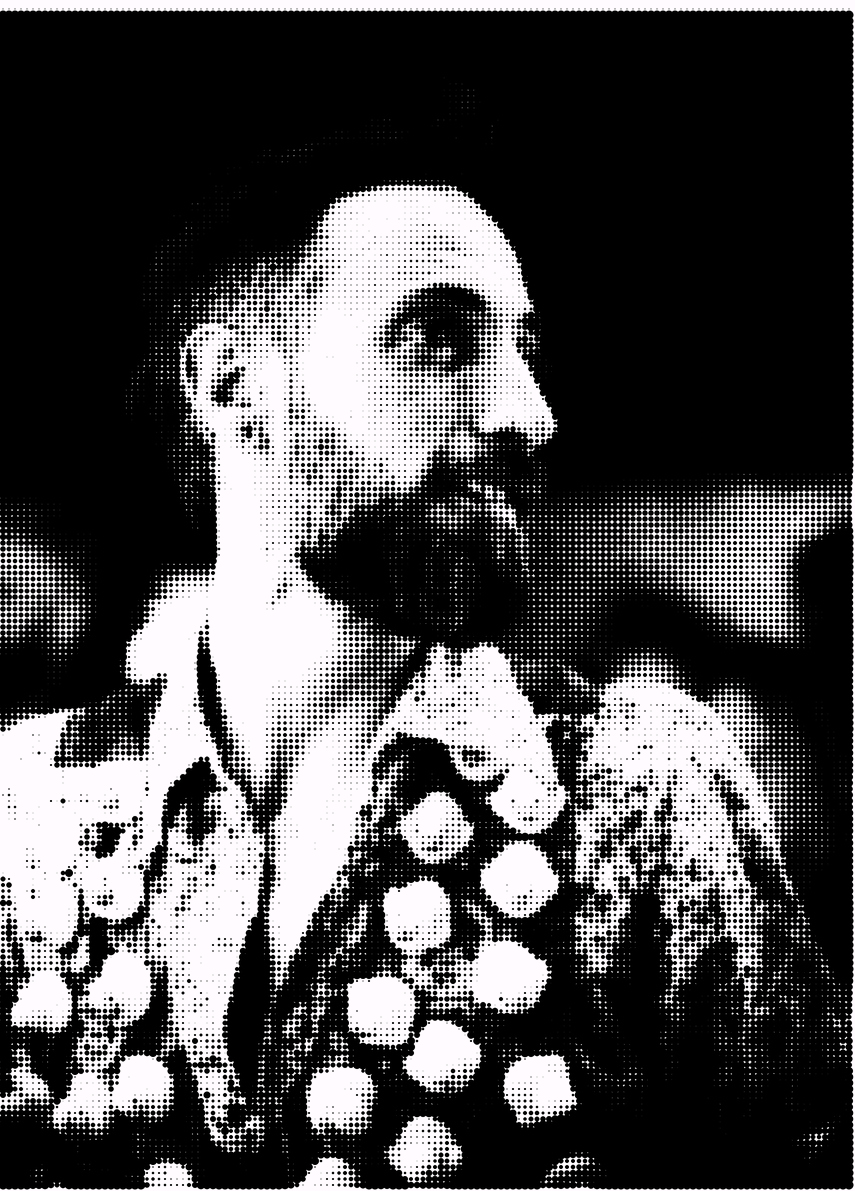
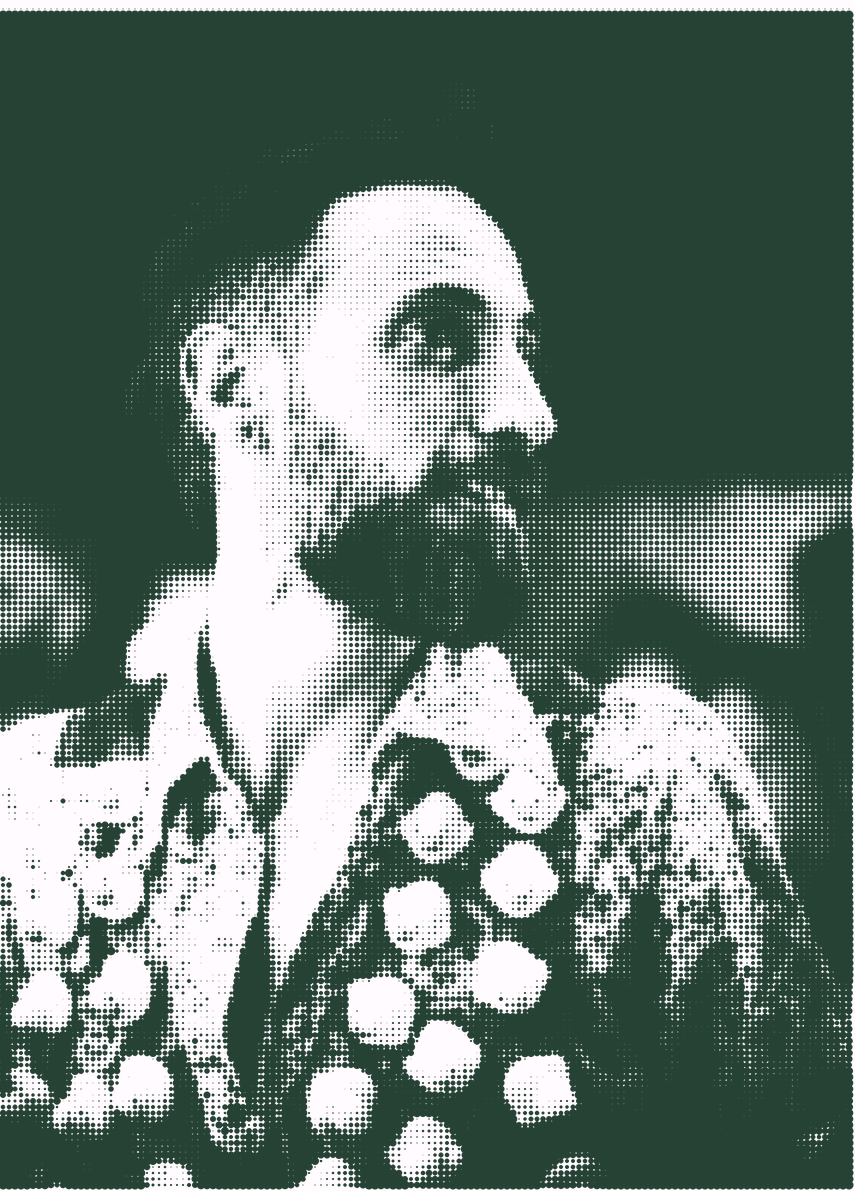
brand: extend palette with terracotta and bottle green
Adds a riso-style secondary pair (#c2603c clay, #3f6b52 / #264234 green)
used in the illustration only - core black/white/red still carries all
typography and rules. Applied across the Chachi X Vivian poster: arch
rings, stairs, bottles, shaker band, tag, bullet dots, and a duotone
green halftone for the portrait.

Claude-Session: https://claude.ai/code/session_01AhfEANtPutTF2tRQEqNaFG

diff --git a/media/brand/poster-chachi.html b/media/brand/poster-chachi.html
@@ -9,7 +9,7 @@
   @font-face{font-family:TutText;src:url('../../fonts/almoni-tzar-demibold-aaa.otf');font-weight:600}
   @font-face{font-family:TutMono;src:url('../../fonts/index-mono-bold-aaa.otf')}
 
-  :root{ --red:#ef1c21; --ink:#000; --paper:#fffbff; }
+  :root{ --red:#ef1c21; --clay:#c2603c; --olive:#3f6b52; --ink:#000; --paper:#fffbff; }
   *{margin:0;padding:0;box-sizing:border-box}
   body{background:#e9e9e9;display:flex;justify-content:center}
 
@@ -25,6 +25,7 @@
   .wordmark{width:296px;display:block}
   .daycircle{
     width:168px;height:168px;border-radius:50%;background:var(--red);
+    box-shadow:0 0 0 9px var(--paper), 0 0 0 14px var(--clay);
     display:flex;flex-direction:column;align-items:center;justify-content:center;
     transform:rotate(-8deg);
   }
@@ -39,7 +40,7 @@
   h1{font:900 96px/.94 Tut;letter-spacing:-2px;text-align:right;margin-top:20px}
   h1 i{color:var(--red);font-style:normal}
   .kicker{display:flex;align-items:center;gap:22px;margin-top:14px}
-  .tag{background:#000;color:var(--paper);font:900 34px/1 Tut;padding:11px 24px}
+  .tag{background:var(--olive);color:var(--paper);font:900 34px/1 Tut;padding:11px 24px}
   .lat{font:400 23px/1 TutMono;letter-spacing:8px;color:#111}
 
   .rule{height:4px;background:#000;margin-top:20px}
@@ -47,7 +48,7 @@
 
   .lede{font:300 36px/1.3 TutText;text-align:right;margin:18px 0 0}
   .lede em{font-weight:600;font-style:normal}
-  .lede b{color:var(--red);font-weight:600}
+  .lede b{color:var(--clay);font-weight:600}
 
   /* ---- details ---- */
   .details{display:flex;align-items:center;gap:34px;margin-top:18px}
@@ -60,6 +61,7 @@
 
   .bullets{font:900 32px/1 Tut;text-align:center;padding:16px 0}
   .bullets i{color:var(--red);font-style:normal;padding:0 10px}
+  .bullets i.c{color:var(--clay)} .bullets i.o{color:var(--olive)}
 
   footer{margin-top:auto;display:flex;align-items:center;justify-content:center;gap:13px;padding-top:14px}
   footer svg{width:34px;height:34px}
@@ -87,9 +89,9 @@
     <g clip-path="url(#cR)">
       <circle cx="872" cy="98" r="50" fill="#ef1c21"/>
       <path d="M666 400 V236 a92 92 0 0 1 184 0 V400" fill="none" stroke="#000" stroke-width="28"/>
-      <path d="M710 400 V236 a48 48 0 0 1 96 0 V400" fill="none" stroke="#000" stroke-width="11"/>
-      <path d="M734 400 V238 a24 24 0 0 1 48 0 V400" fill="none" stroke="#000" stroke-width="5"/>
-      <path d="M846 400 V308 h38 V270 h38 V232 h38 V400 Z" fill="#000"/>
+      <path d="M710 400 V236 a48 48 0 0 1 96 0 V400" fill="none" stroke="#c2603c" stroke-width="11"/>
+      <path d="M734 400 V238 a24 24 0 0 1 48 0 V400" fill="none" stroke="#3f6b52" stroke-width="5"/>
+      <path d="M846 400 V308 h38 V270 h38 V232 h38 V400 Z" fill="#c2603c"/>
       <rect x="624" y="374" width="336" height="6" fill="#000"/>
     </g>
 
@@ -97,22 +99,22 @@
     <clipPath id="cM"><rect x="298" y="3" width="313" height="394"/></clipPath>
     <g clip-path="url(#cM)">
       <!-- solid black base (bottom half) -->
-      <rect x="298" y="222" width="313" height="178" fill="#000"/>
+      <rect x="298" y="222" width="313" height="178" fill="#264234"/>
       <!-- shaker -->
       <g stroke="#000" stroke-width="4" fill="#fffbff">
         <path d="M330 222 V126 l12 -32 h54 l12 32 V222 Z"/>
-        <rect x="338" y="66" width="66" height="26"/>
+        <rect x="338" y="66" width="66" height="26" fill="#c2603c"/>
         <path d="M350 66 V50 h42 v16"/>
       </g>
       <!-- striped bottle -->
       <g stroke="#000" stroke-width="4" fill="#fffbff">
         <path d="M432 222 V116 c0 -22 15 -26 15 -45 V40 h-30 v31 c0 19 15 23 15 45 V222 Z"/>
       </g>
-      <g stroke="#000" stroke-width="3">
+      <g stroke="#c2603c" stroke-width="5">
         <path d="M419 132 h26 M419 146 h26 M419 160 h26 M419 174 h26 M419 188 h26"/>
       </g>
       <!-- solid bottle -->
-      <path d="M498 222 V122 c0 -22 -14 -26 -14 -44 V46 h28 v32 c0 18 14 22 14 44 V222 Z" fill="#000"/>
+      <path d="M498 222 V122 c0 -22 -14 -26 -14 -44 V46 h28 v32 c0 18 14 22 14 44 V222 Z" fill="#3f6b52"/>
       <!-- coupe on the shelf -->
       <g stroke="#000" stroke-width="4" fill="none">
         <path d="M540 150 h56 a28 28 0 0 1 -56 0 Z" fill="#000"/>
@@ -142,9 +144,9 @@
     </g>
     <!-- name plate over the portrait -->
     <g>
-      <rect x="3" y="333" width="176" height="56" fill="#fffbff"/>
+      <rect x="3" y="331" width="180" height="60" fill="#fffbff" stroke="#264234" stroke-width="3"/>
       <text x="91" y="374" text-anchor="middle" font-family="Tut" font-weight="900"
-            font-size="36" fill="#000">צ'אצ'י</text>
+            font-size="36" fill="#3f6b52">צ'אצ'י</text>
     </g>
   </svg>
   </div>
@@ -178,7 +180,7 @@
   </div>
 
   <div class="rule thin"></div>
-  <div class="bullets">ואנחנו <i>•</i> מוזיקה <i>•</i> קוקטיילים <i>•</i> ריקאברי <i>•</i> צהריים</div>
+  <div class="bullets">ואנחנו <i>•</i> מוזיקה <i class="c">•</i> קוקטיילים <i class="o">•</i> ריקאברי <i class="c">•</i> צהריים</div>
   <div class="rule thin" style="margin-top:0"></div>
 
   <footer>

diff --git a/BRAND.md b/BRAND.md
@@ -11,10 +11,14 @@
 | `media/logo-mark.png` / `logo-mark-white.png` | גרסת מארק צרה (645×249) — שחור / לבן |
 | `media/brand/wordmark-studio-tut.png` | וורדמארק **סטודיו תות** בשתי שורות, שחור על שקוף (408×214) |
 | `media/brand/poster-opening-party.png` | הפוסטר המלא של מסיבת הפתיחה — ייחוס לשפה |
+| `media/brand/poster-chachi.html` + `poster-chachi-recovery-bar.png` | מודעת צ'אצ'י X ויויאן — מקור נערך + פלט |
+| `media/brand/chachi-halftone.png` | דיוקן צ'אצ'י בהאלפטון דו-גוני (דיו ירוק כהה) |
 | `favicon.png` | אייקון האתר |
 
 ## פלטת צבעים
-שלושה צבעים בלבד. אין גרדיאנטים, אין צללים, אין צבעי ביניים.
+צבעים שטוחים בלבד. אין גרדיאנטים, אין צללים, אין צבעי ביניים.
+
+**הליבה** — הבסיס של כל חומר:
 
 | תפקיד | ערך | הערה |
 |---|---|---|
@@ -22,6 +26,21 @@
 | דיו | `#000000` | שחור מלא, לא אפור-שחור |
 | מבטא | `#ef1c21` בדפוס · `#ef4444` באתר | אדום רווי אחד, בכמות קטנה |
 | אפור מושתק | `#545454` | טקסט משני בלבד |
+
+**גווני משנה** (נוספו ביולי 2026, לבקשת המשתמשת) — לחומרי דפוס ואיור, בתחושת ריזוגרף:
+
+| תפקיד | ערך | איפה |
+|---|---|---|
+| חמרה | `#c2603c` | מדרגות, פסים, טבעות, נקודות מפרידות |
+| ירוק בקבוק | `#3f6b52` | בקבוקים, תוויות, קשתות פנימיות |
+| ירוק כהה (בלוק) | `#264234` | שטחים מלאים שהיו שחורים, ודיו של האלפטון |
+
+**כללי שימוש:**
+- הליבה שולטת. חמרה וירוק הם **תבלין באיור** — לא בטיפוגרפיה הראשית, לא בקווי ההפרדה, לא במסגרת.
+- כותרות, גוף הטקסט וכל הקווים האופקיים נשארים **שחורים**. השלד תמיד מונוכרום.
+- האדום נשאר המבטא הראשי; חמרה וירוק לא מחליפים אותו ולא מתחרים בו על תשומת לב.
+- לא יותר משני גווני משנה בקומפוזיציה אחת.
+- באתר (`tutlavi.com`) הפלטה נשארת בינתיים **ליבה בלבד** — הגוונים הם לחומרי דפוס וסושיאל.
 
 **כלל הזהב:** האדום הוא סימן פיסוק, לא צבע מילוי. נקודה, עיגול שמש, מסגרת,
 הדגשת סטטוס — ולא יותר משלושה מופעים במסך אחד.
@@ -48,7 +67,7 @@
   שמש אדומה, כפתורים עגולים, חותמות/באדג'ים.
 
 ## איורים
-סגנון וקטורי שטוח, שחור-לבן בלבד + נגיעת אדום:
+סגנון וקטורי שטוח, שחור-לבן + נגיעות אדום, ובחומרי דפוס גם חמרה וירוק:
 - קווי מתאר בעובי אחיד, מילוי שחור מלא או לבן — אין הצללה, אין הדרגה.
 - אלמנטים חוזרים: קשתות, מדרגות, עמודים מפוספסים, עלווה גרפית, כלי קוקטייל,
   ציוד DJ, צורה אורגנית שחורה כניגוד לגיאומטריה.
@@ -60,8 +79,19 @@
 - `כניסה חופשית`, `ואנחנו` — לשון מזמינה, לא שיווקית.
 
 ## מה לא לעשות
-- ❌ להוסיף צבע רביעי, גרדיאנט, צל או זכוכית מטושטשת.
+- ❌ להוסיף גרדיאנט, צל או זכוכית מטושטשת.
+- ❌ לצבוע טיפוגרפיה ראשית או קווי הפרדה בחמרה/ירוק — הם לאיור בלבד.
+- ❌ להעמיס יותר משני גווני משנה בקומפוזיציה אחת.
 - ❌ לעגל פינות של בלוקים או תמונות.
 - ❌ להשתמש בגופן קליל לכותרת עברית, או במשקל כבד לטקסט הלטיני.
 - ❌ לפזר אדום על שטחים גדולים.
 - ❌ להחזיר placeholders של Base44 (`hello@toot.studio`, סדנאות דמה).
+
+## צילומים בתוך העיצוב
+צילום צבע גולמי שובר את השפה. הדרך הנכונה לשלב תמונה:
+1. גרייסקייל → העלאת קונטרסט חזקה.
+2. **האלפטון** (נקודות עגולות, תא ~6px) — לא דיתרינג עדין, שנראה רועש.
+3. צביעה דו-גונית: דיו אחד מהפלטה (שחור או `#264234`) על נייר `#fffbff`.
+4. להכניס לתוך פאנל מלבני עם קו מתאר, כמו כל אריח אחר ברשת.
+
+הסקריפט ששימש לייצור `chachi-halftone.png` מתועד ב-`poster-chachi.html` (הפאנל השמאלי).
